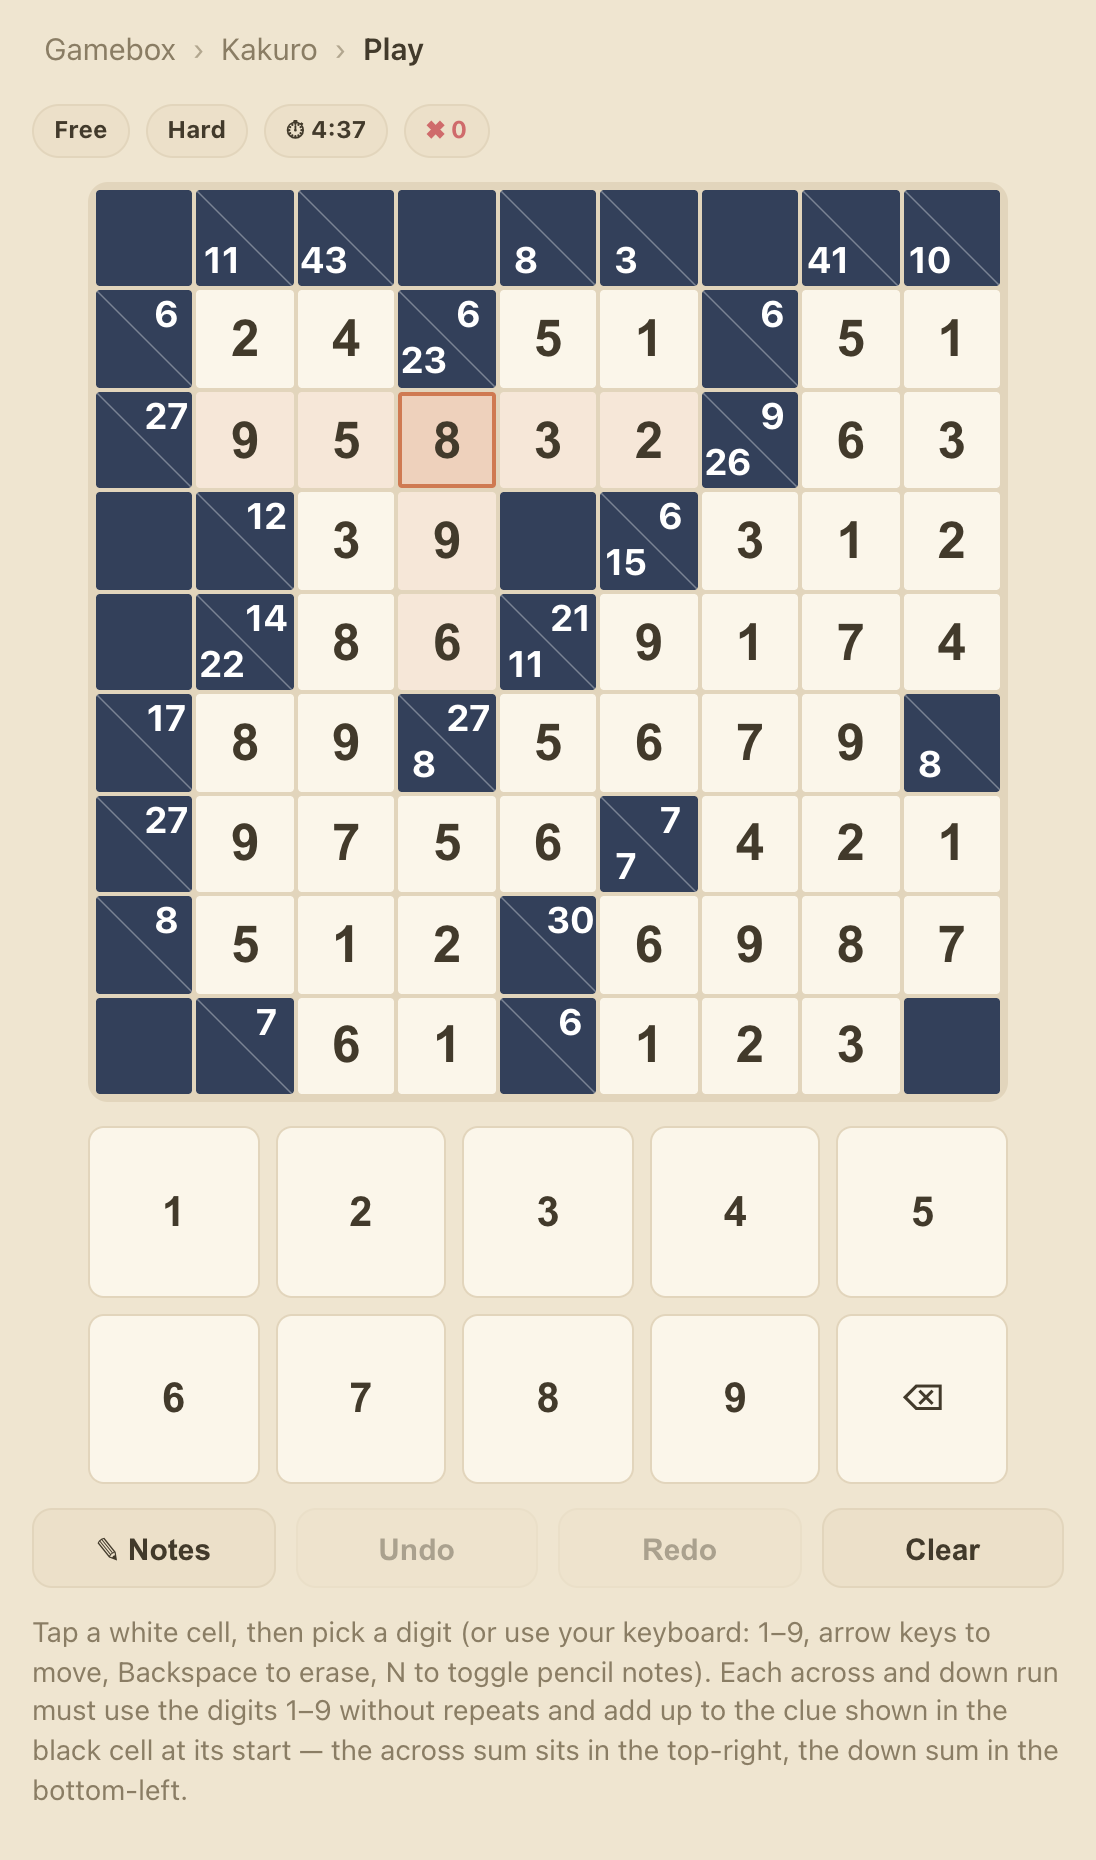
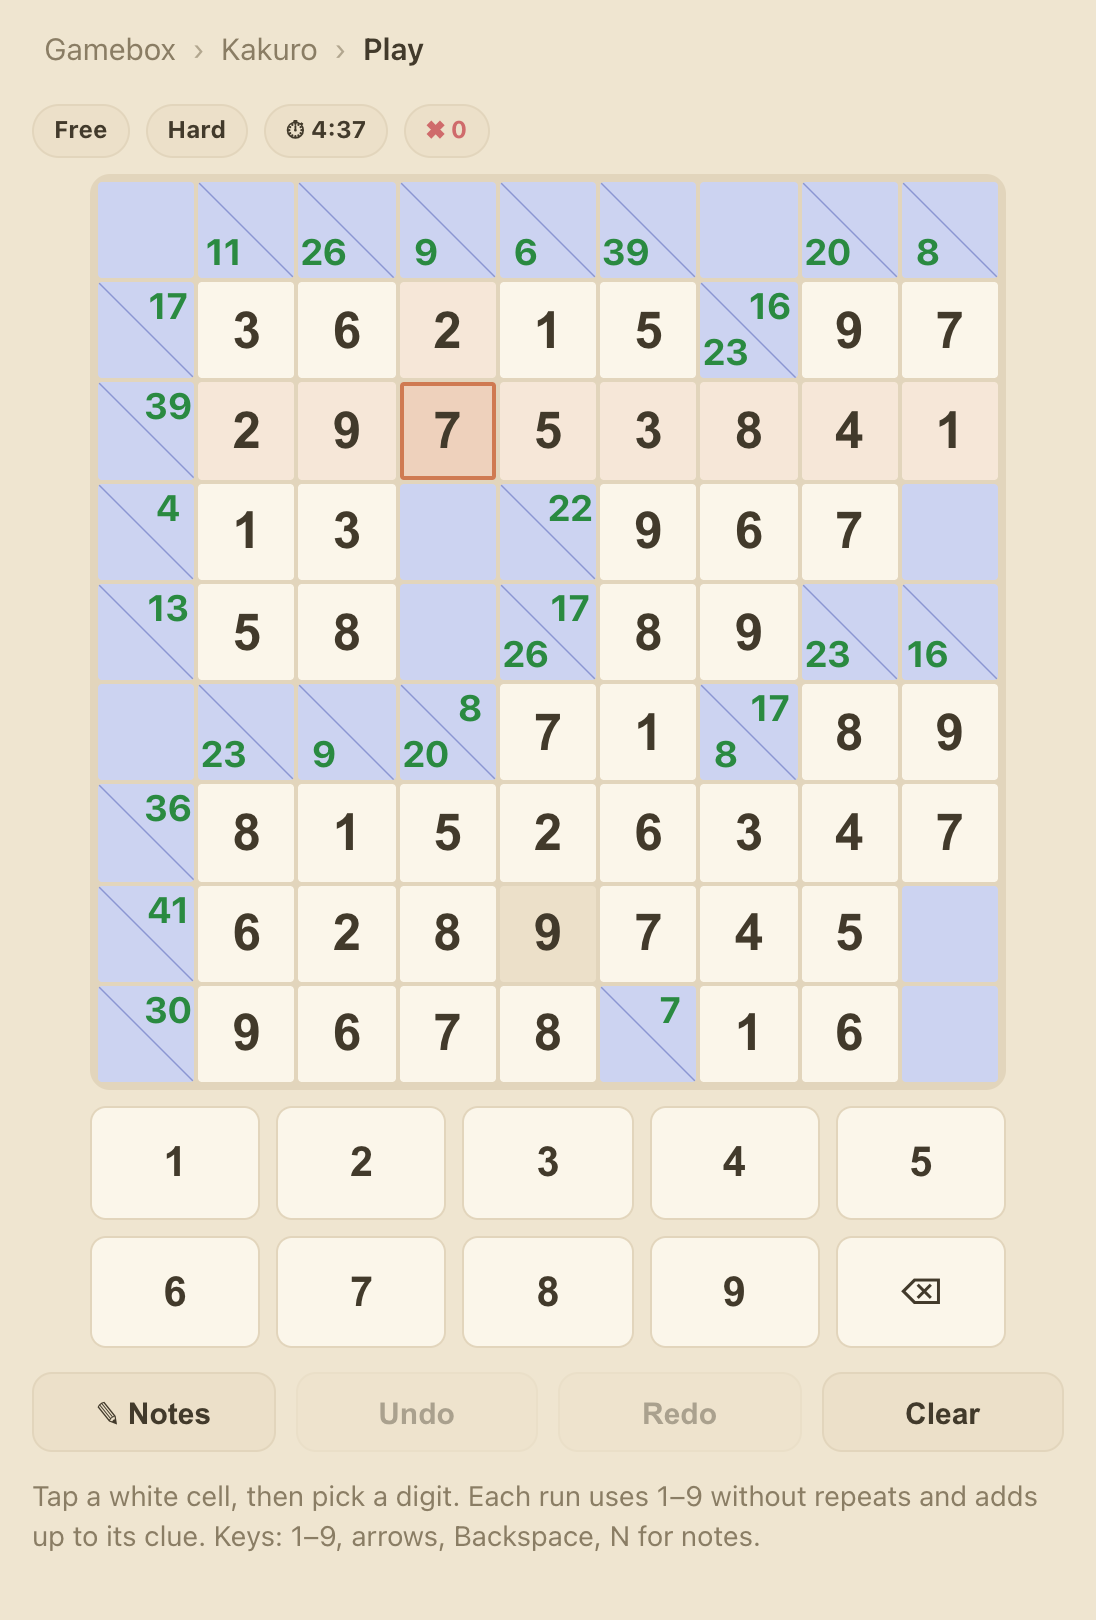
style(kakuro): use a pastel palette to match the other games
- Replace the navy clue cells with soft periwinkle, with indigo clue
  numbers and a deeper green for met clues; add a matching dark theme.
- Match the hub thumbnail to the new colours.
- Use minmax(0, 1fr) grid tracks so cells no longer overflow the board.
- Retake the README example screenshot.

diff --git a/src/games/kakuro/ui/Preview.tsx b/src/games/kakuro/ui/Preview.tsx
@@ -1,6 +1,10 @@
 // A simplified thumbnail of a Kakuro board for the hub tile: a small grid with
-// black clue cells (diagonal split carrying sums) and white cells holding a few
+// pastel clue cells (diagonal split carrying sums) and white cells holding a few
 // sample digits.
+// Pastel periwinkle clue cells, matching the board.
+const CLUE_BG = '#ccd3f1';
+const CLUE_INK = '#3e4779';
+const CLUE_LINE = '#8b96d2';
 const CELL = 12;
 const SIZE = 4;
 
@@ -68,14 +72,14 @@ export function KakuroPreview() {
         const clue = CLUES[i];
         return (
           <g key={i}>
-            <rect x={x} y={y} width={CELL} height={CELL} fill="var(--kk-clue-bg, #33405a)" />
+            <rect x={x} y={y} width={CELL} height={CELL} fill={CLUE_BG} />
             {clue && (
               <line
                 x1={x}
                 y1={y}
                 x2={x + CELL}
                 y2={y + CELL}
-                stroke="rgba(255,255,255,0.35)"
+                stroke={CLUE_LINE}
                 strokeWidth={0.75}
               />
             )}
@@ -87,7 +91,7 @@ export function KakuroPreview() {
                 dominantBaseline="central"
                 fontSize={5}
                 fontWeight={700}
-                fill="#fff"
+                fill={CLUE_INK}
               >
                 {clue.right}
               </text>
@@ -100,7 +104,7 @@ export function KakuroPreview() {
                 dominantBaseline="central"
                 fontSize={5}
                 fontWeight={700}
-                fill="#fff"
+                fill={CLUE_INK}
               >
                 {clue.down}
               </text>
@@ -111,7 +115,7 @@ export function KakuroPreview() {
 
       {/* Grid lines. */}
       {Array.from({ length: SIZE + 1 }, (_, k) => (
-        <g key={`g${k}`} stroke="rgba(0,0,0,0.18)" strokeWidth={0.75}>
+        <g key={`g${k}`} stroke="rgba(120, 105, 70, 0.28)" strokeWidth={0.75}>
           <line x1={k * CELL} y1={0} x2={k * CELL} y2={total} />
           <line x1={0} y1={k * CELL} x2={total} y2={k * CELL} />
         </g>

diff --git a/src/games/kakuro/ui/styles.css b/src/games/kakuro/ui/styles.css
@@ -29,11 +29,18 @@
   width: var(--kk-size, min(92vw, 460px));
   aspect-ratio: 1;
   user-select: none;
-  --kk-clue-bg: #33405a;
+  /* Soft periwinkle clue cells, from the same pastel family as Shikaku. */
+  --kk-clue-bg: #ccd3f1;
+  --kk-clue-ink: #3e4779;
+  --kk-clue-line: #8b96d2;
+  --kk-met: #2a8a41;
 }
 
 [data-theme='dark'] .kk-board {
-  --kk-clue-bg: #2a3346;
+  --kk-clue-bg: #2f3557;
+  --kk-clue-ink: #dfe4ff;
+  --kk-clue-line: rgba(255, 255, 255, 0.3);
+  --kk-met: #7ddc8f;
 }
 
 .kk-cell {
@@ -64,12 +71,12 @@
 }
 
 .kk-clue__slash {
-  stroke: rgba(255, 255, 255, 0.35);
+  stroke: var(--kk-clue-line);
   stroke-width: 1.5;
 }
 
 .kk-clue__num {
-  fill: #fff;
+  fill: var(--kk-clue-ink);
   font-size: 38px;
   font-weight: 700;
   text-anchor: middle;
@@ -77,7 +84,7 @@
 
 /* A run whose digits are all in and add up to its clue. */
 .kk-clue__num--met {
-  fill: #7ddc8f;
+  fill: var(--kk-met);
 }
 
 /* White fill cells. */

diff --git a/src/games/kakuro/ui/Board.tsx b/src/games/kakuro/ui/Board.tsx
@@ -73,7 +73,7 @@ export function Board({ puzzle, digits, notes, selected, review, onSelect }: Boa
   }, [cells, size, digits]);
 
   const gridStyle = {
-    gridTemplateColumns: `repeat(${size}, 1fr)`,
+    gridTemplateColumns: `repeat(${size}, minmax(0, 1fr))`,
   } as React.CSSProperties;
 
   return (

diff --git a/README.md b/README.md
@@ -23,7 +23,7 @@ Pick a game from the hub:
 
 <!-- markdownlint-disable MD033 -->
 <p><em>Shikaku</em><br />
-<img src="docs/example-inboxes-game.png" alt="A completed Shikaku board partitioned into coloured rectangles, each labelled with its area" width="200" /></p>
+<img src="docs/example-shikaku-game.png" alt="A completed Shikaku board partitioned into coloured rectangles, each labelled with its area" width="200" /></p>
 
 <p><em>Battleships</em><br />
 <img src="docs/example-battleships-game.png" alt="A completed Battleships board" width="200" /></p>
